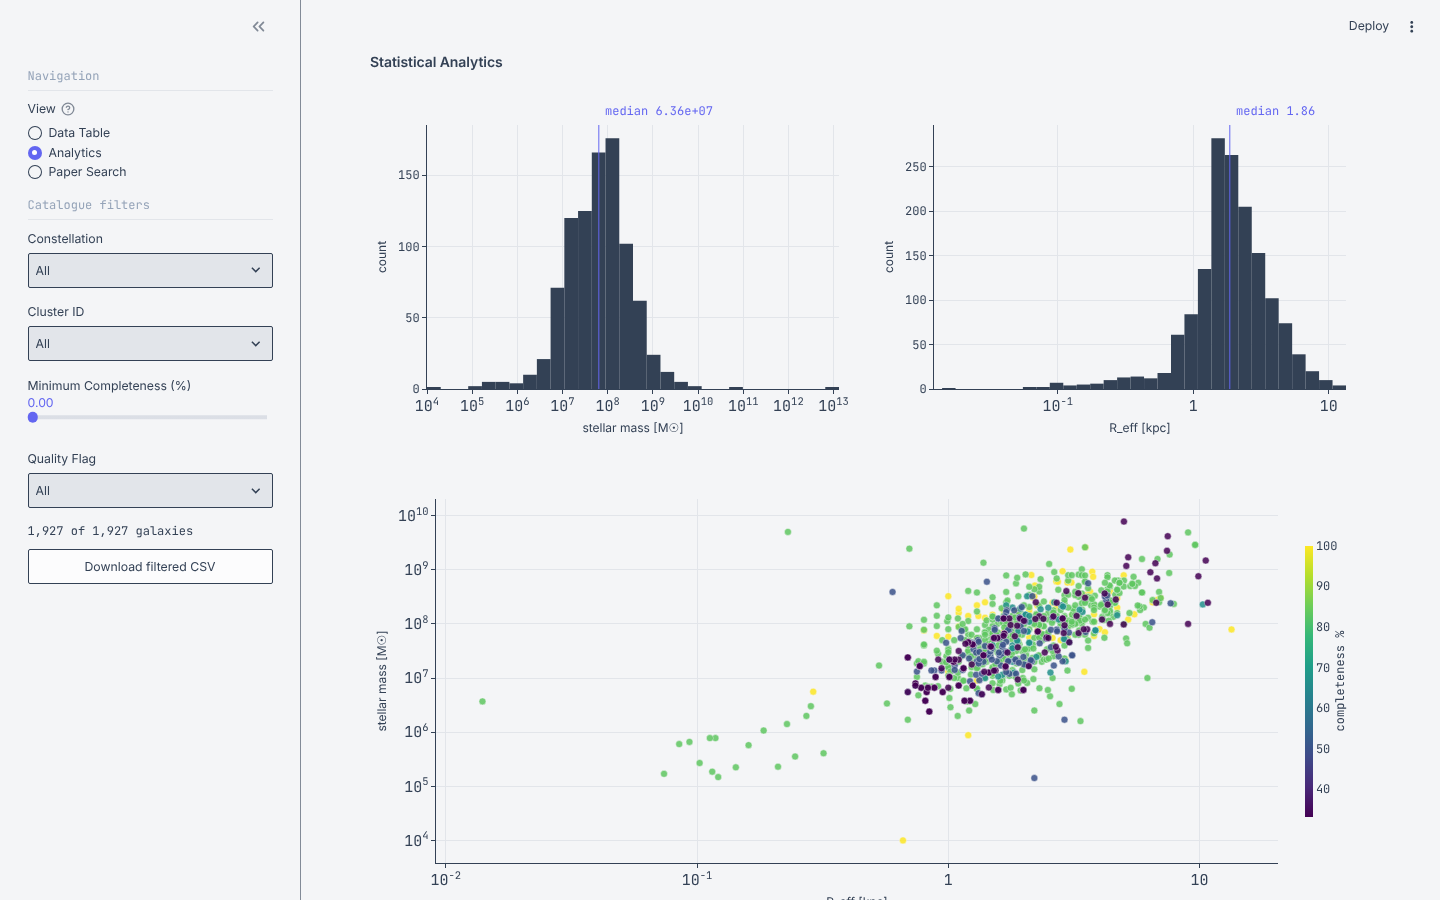
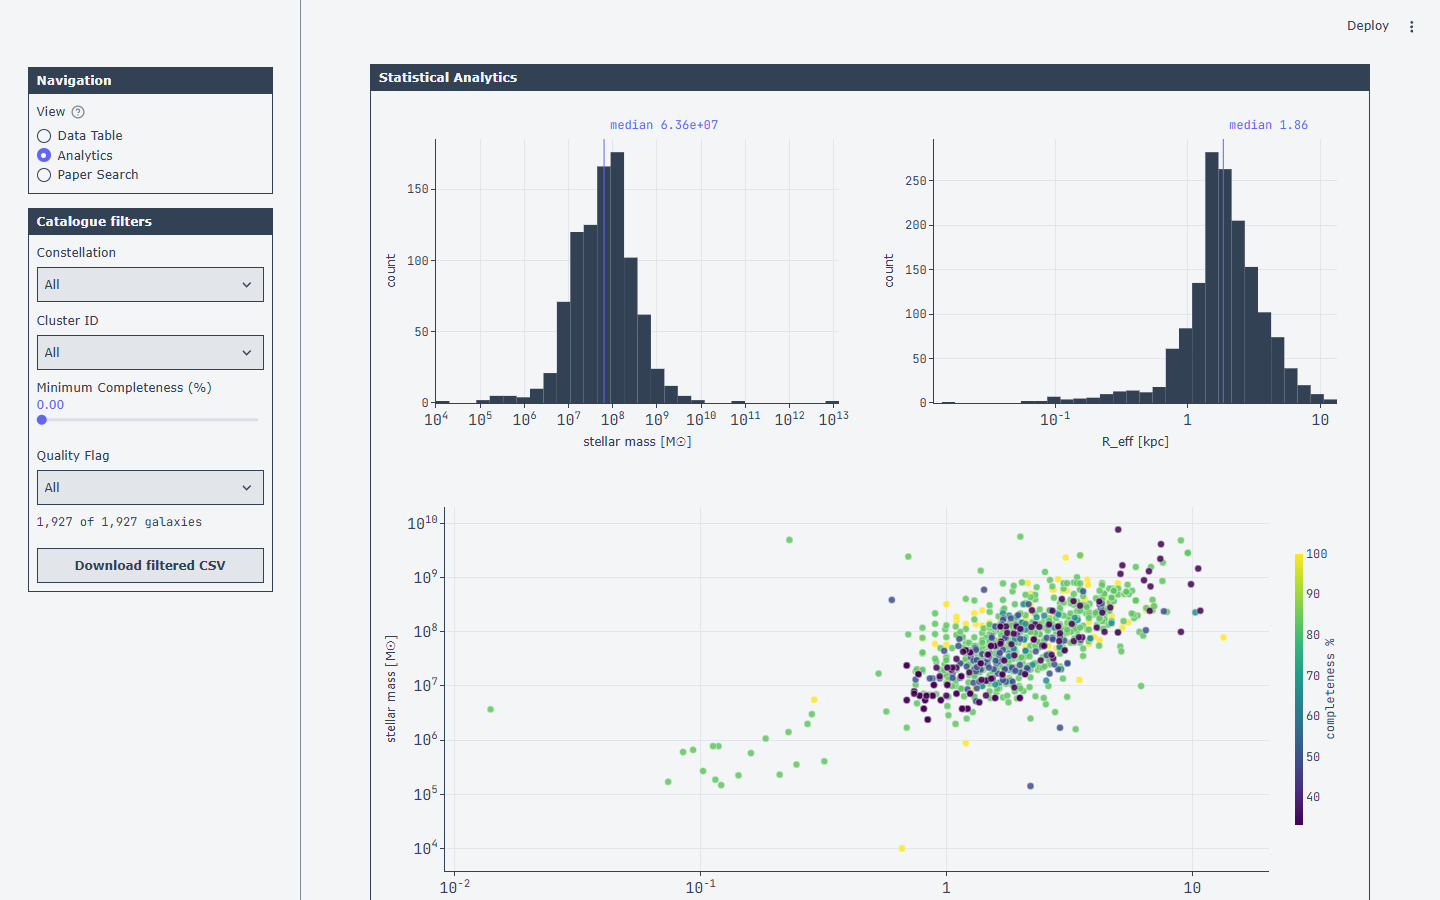
docs: retake the gallery in the board layout
The map, analytics and paper search screenshots now show the board layout, a new Board Index screenshot shows the site header, nav strip and board index, and every caption describes what its screenshot shows.

diff --git a/README.md b/README.md
@@ -399,23 +399,29 @@ The map's radial axis is scaled as √distance so that nearby and distant galaxi
 
 ## Gallery
 
+### Board Index
+
+![Board Index](assets/board.png)
+
+*The top of the Data Table page at 1440×900: the site header with the catalogue size, the nav strip with the time, the breadcrumb, and the board index listing the selection's eight largest constellations and clusters with their galaxies, confirmed and mapped counts and nearest mapped galaxy; ■ marks a group with a confirmed galaxy. The navigation and catalogue filters are boards in the sidebar.*
+
 ### Galaxy Map
 
 ![3D Map](assets/demo.png)
 
-*Interactive 3D map of UDGs with known position and distance, coloured by dark-matter fraction on Viridis; a galaxy without the measure is grey, never drawn as zero. Hover over any point to see its constellation, cluster, completeness and measured parameters.*
+*The 3D map board: UDGs with known position and distance, coloured by dark-matter fraction on Viridis; a galaxy without the measure is grey, never drawn as zero. Hover over any point to see its constellation, cluster, completeness and measured parameters. The paginated data table board follows it.*
 
 ### Analytics Dashboard
 
 ![Analytics](assets/analytics.png)
 
-*Statistical plots: stellar mass and effective radius in log-spaced bins with the median marked, and the mass–radius relation coloured by completeness on Viridis.*
+*The analytics board: stellar mass and effective radius in log-spaced bins with the median marked, and the mass–radius relation coloured by completeness on Viridis.*
 
 ### Paper Search
 
 ![Paper Search](assets/interface-search.png)
 
-*The search page at 1440×900: query bar with chips, hit list, graph canvas with the seed in the accent colour and communities in distinct hues, and the inspector with the paper's catalogue rows and extraction stamp. Facets are in the sidebar.*
+*The search page for `dark matter deficient`: the query bar with its parsed chips and status line, the hits as topic rows with their keyword and meaning ranks, the discovery graph of the Dragonfly survey paper with the seed in the accent colour and the papers outside the hits dimmed, and the inspector with the paper's authors, year and category. Facets and the catalogue filters are boards in the sidebar.*
 
 ---
 
